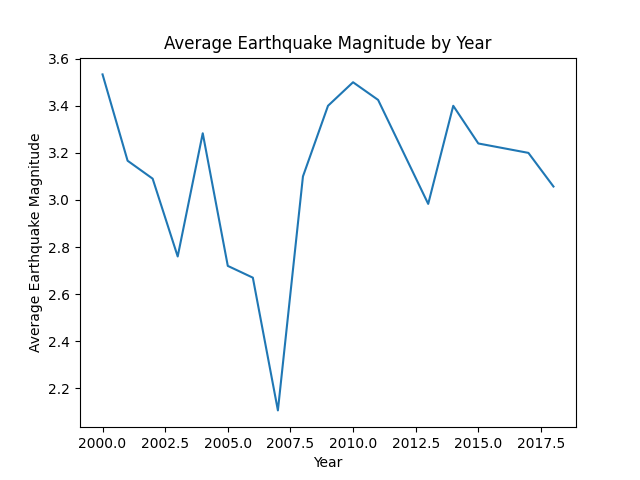
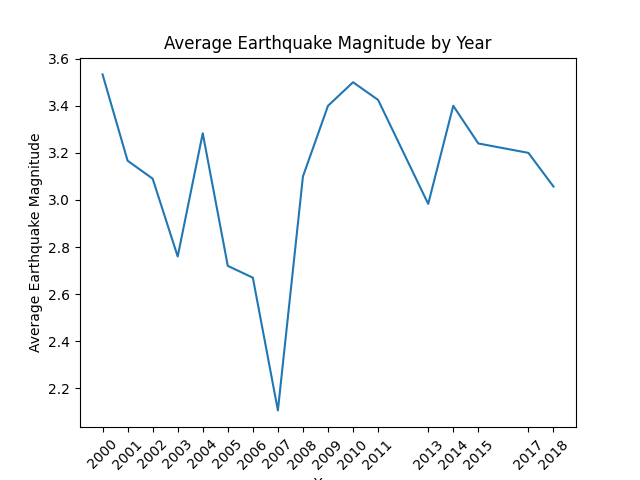
Better formatting on plots

Changed region(s): [[0.125, 0.9062, 0.7812, 1.0], [0.8125, 0.9062, 0.9062, 0.9688]]

diff --git a/plot_earthquakes.py b/plot_earthquakes.py
@@ -78,6 +78,7 @@ def plot_average_magnitude_per_year(earthquakes):
     y_data = [np.mean(list(data.values())[i]) for i in range(len(x_data))]
     plt.plot(x_data,y_data)
     plt.xlabel("Year")
+    plt.xticks(x_data, rotation=45)
     plt.ylabel("Average Earthquake Magnitude")
     plt.title("Average Earthquake Magnitude by Year")
     plt.savefig("plot_average_magnitude_per_year.png")
@@ -90,6 +91,7 @@ def plot_number_per_year(earthquakes):
     y_data = [len(list(data.values())[i]) for i in range (len(x_data))]
     plt.plot(x_data,y_data)
     plt.xlabel("Year")
+    plt.xticks(x_data, rotation=45)
     plt.ylabel("Number of Earthquakes")
     plt.title("Number of Recorded Earthquakes by Year")
     plt.savefig("plot_number_per_year.png")
